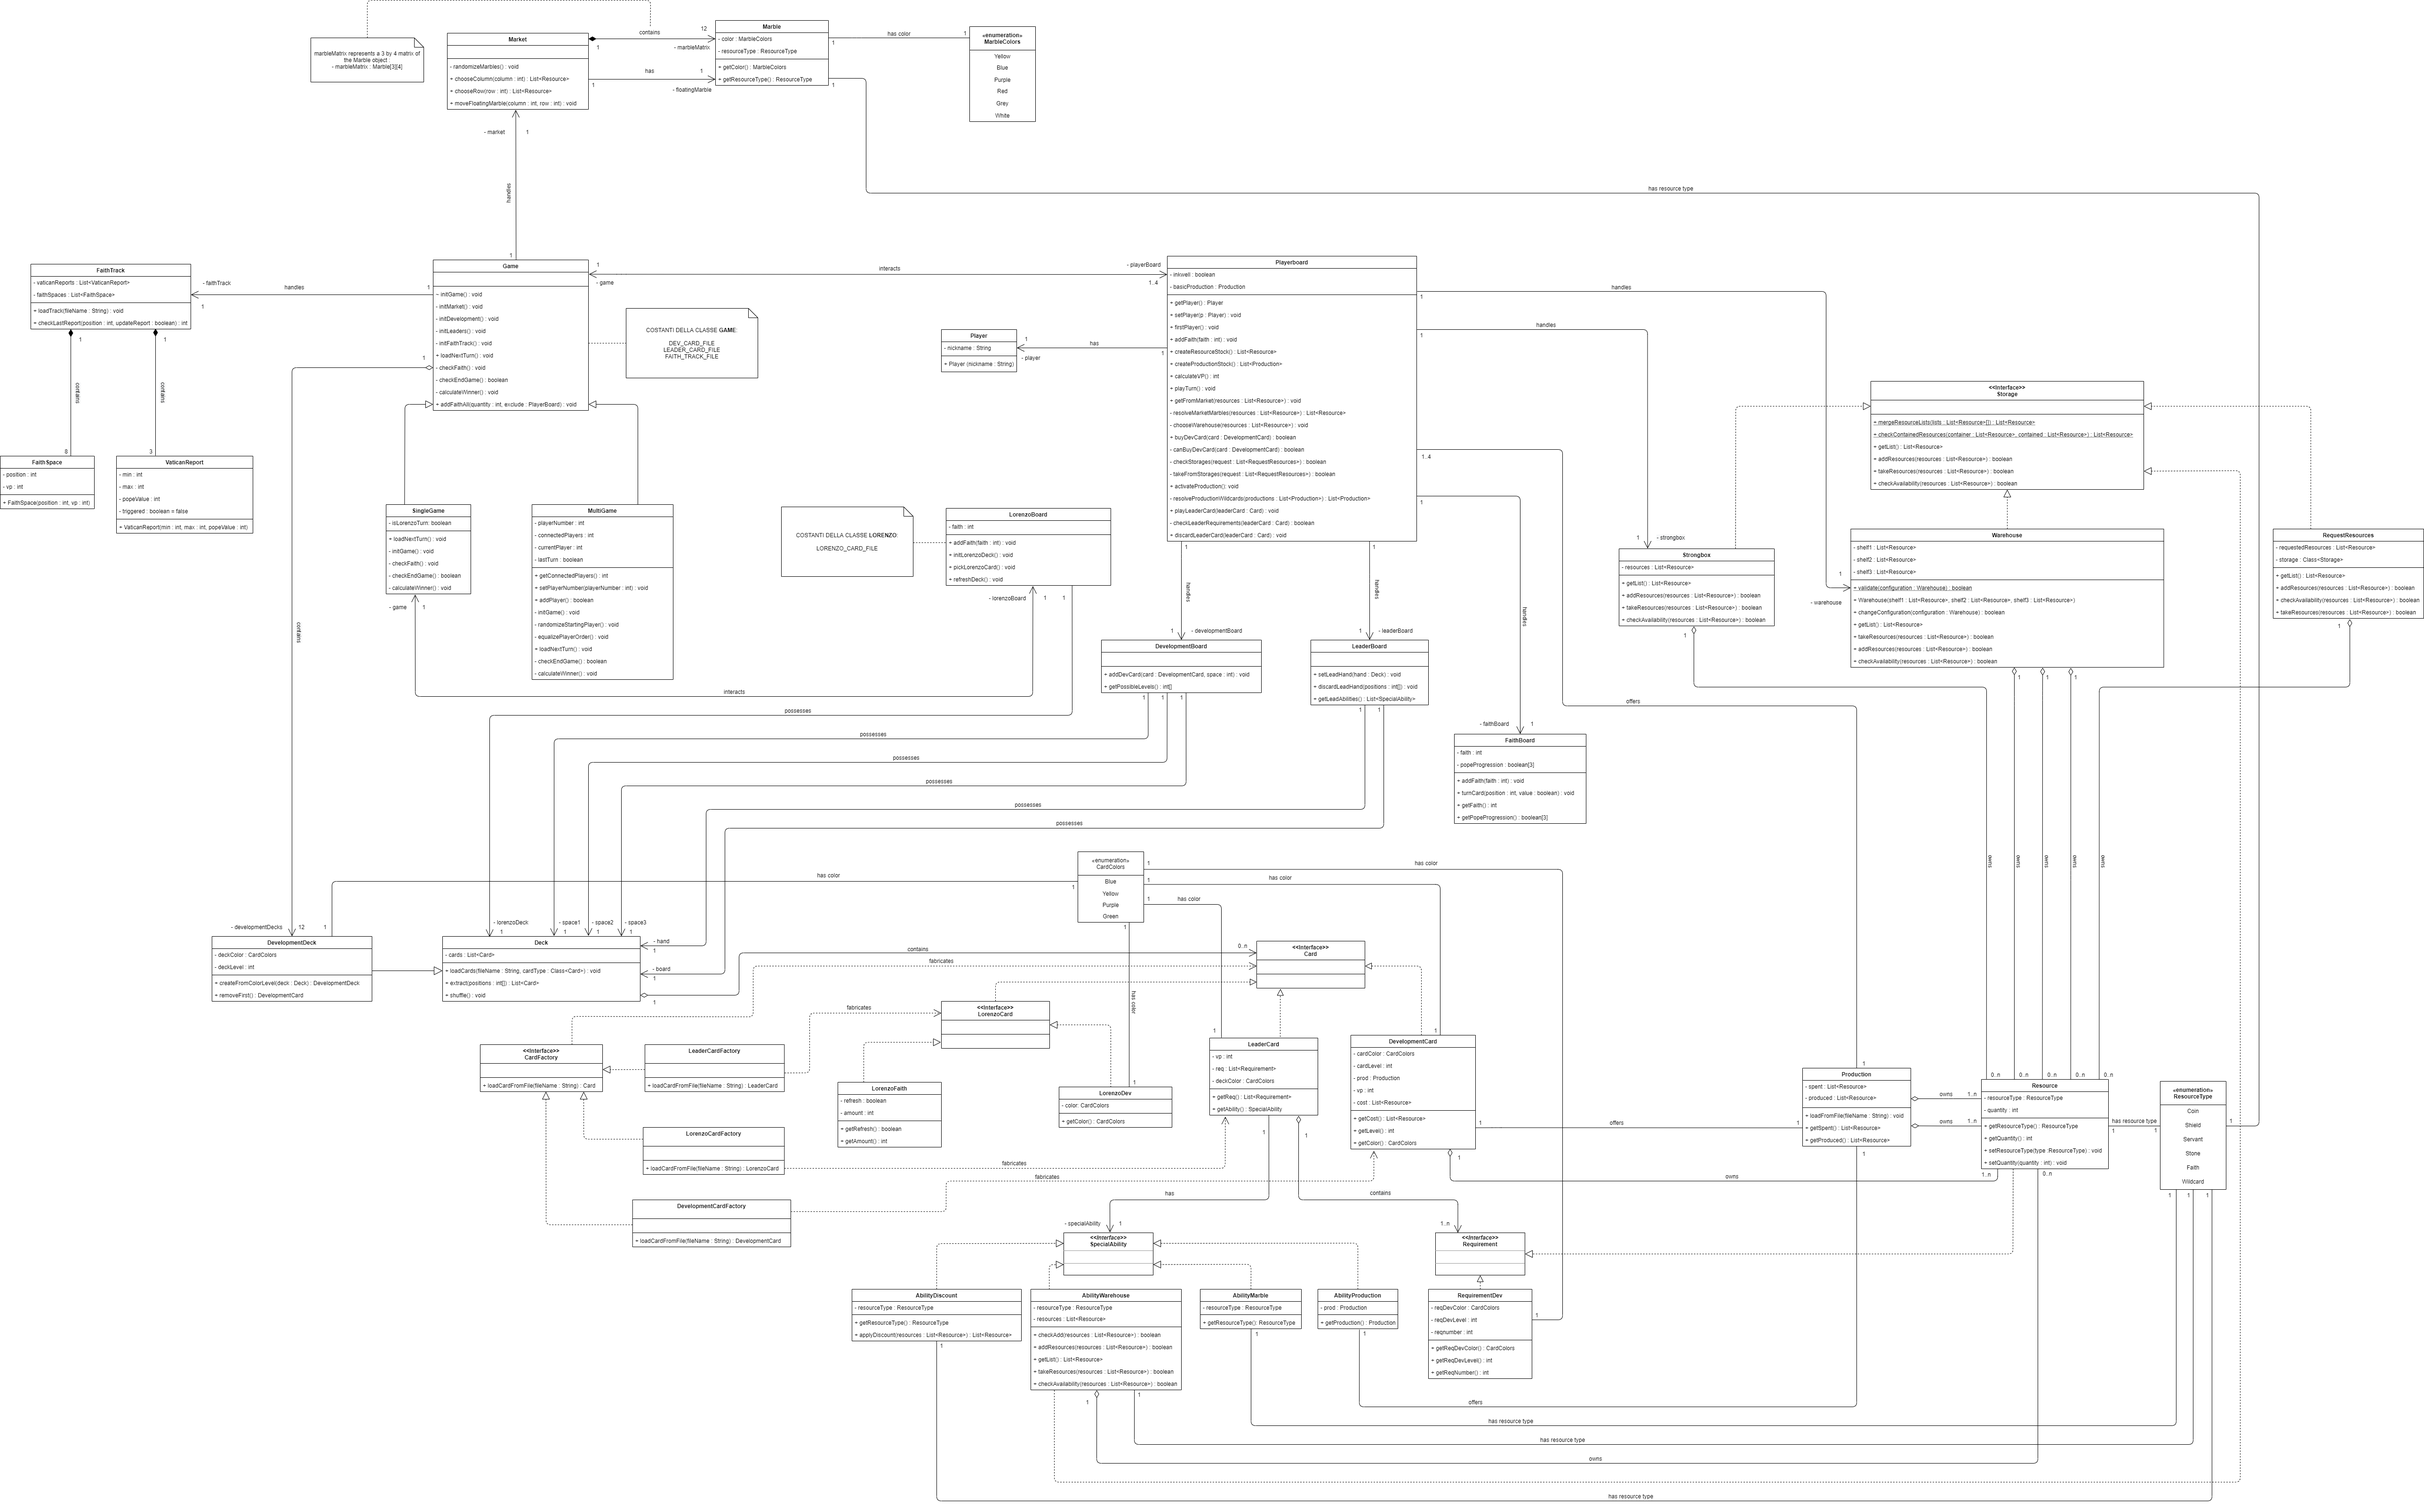
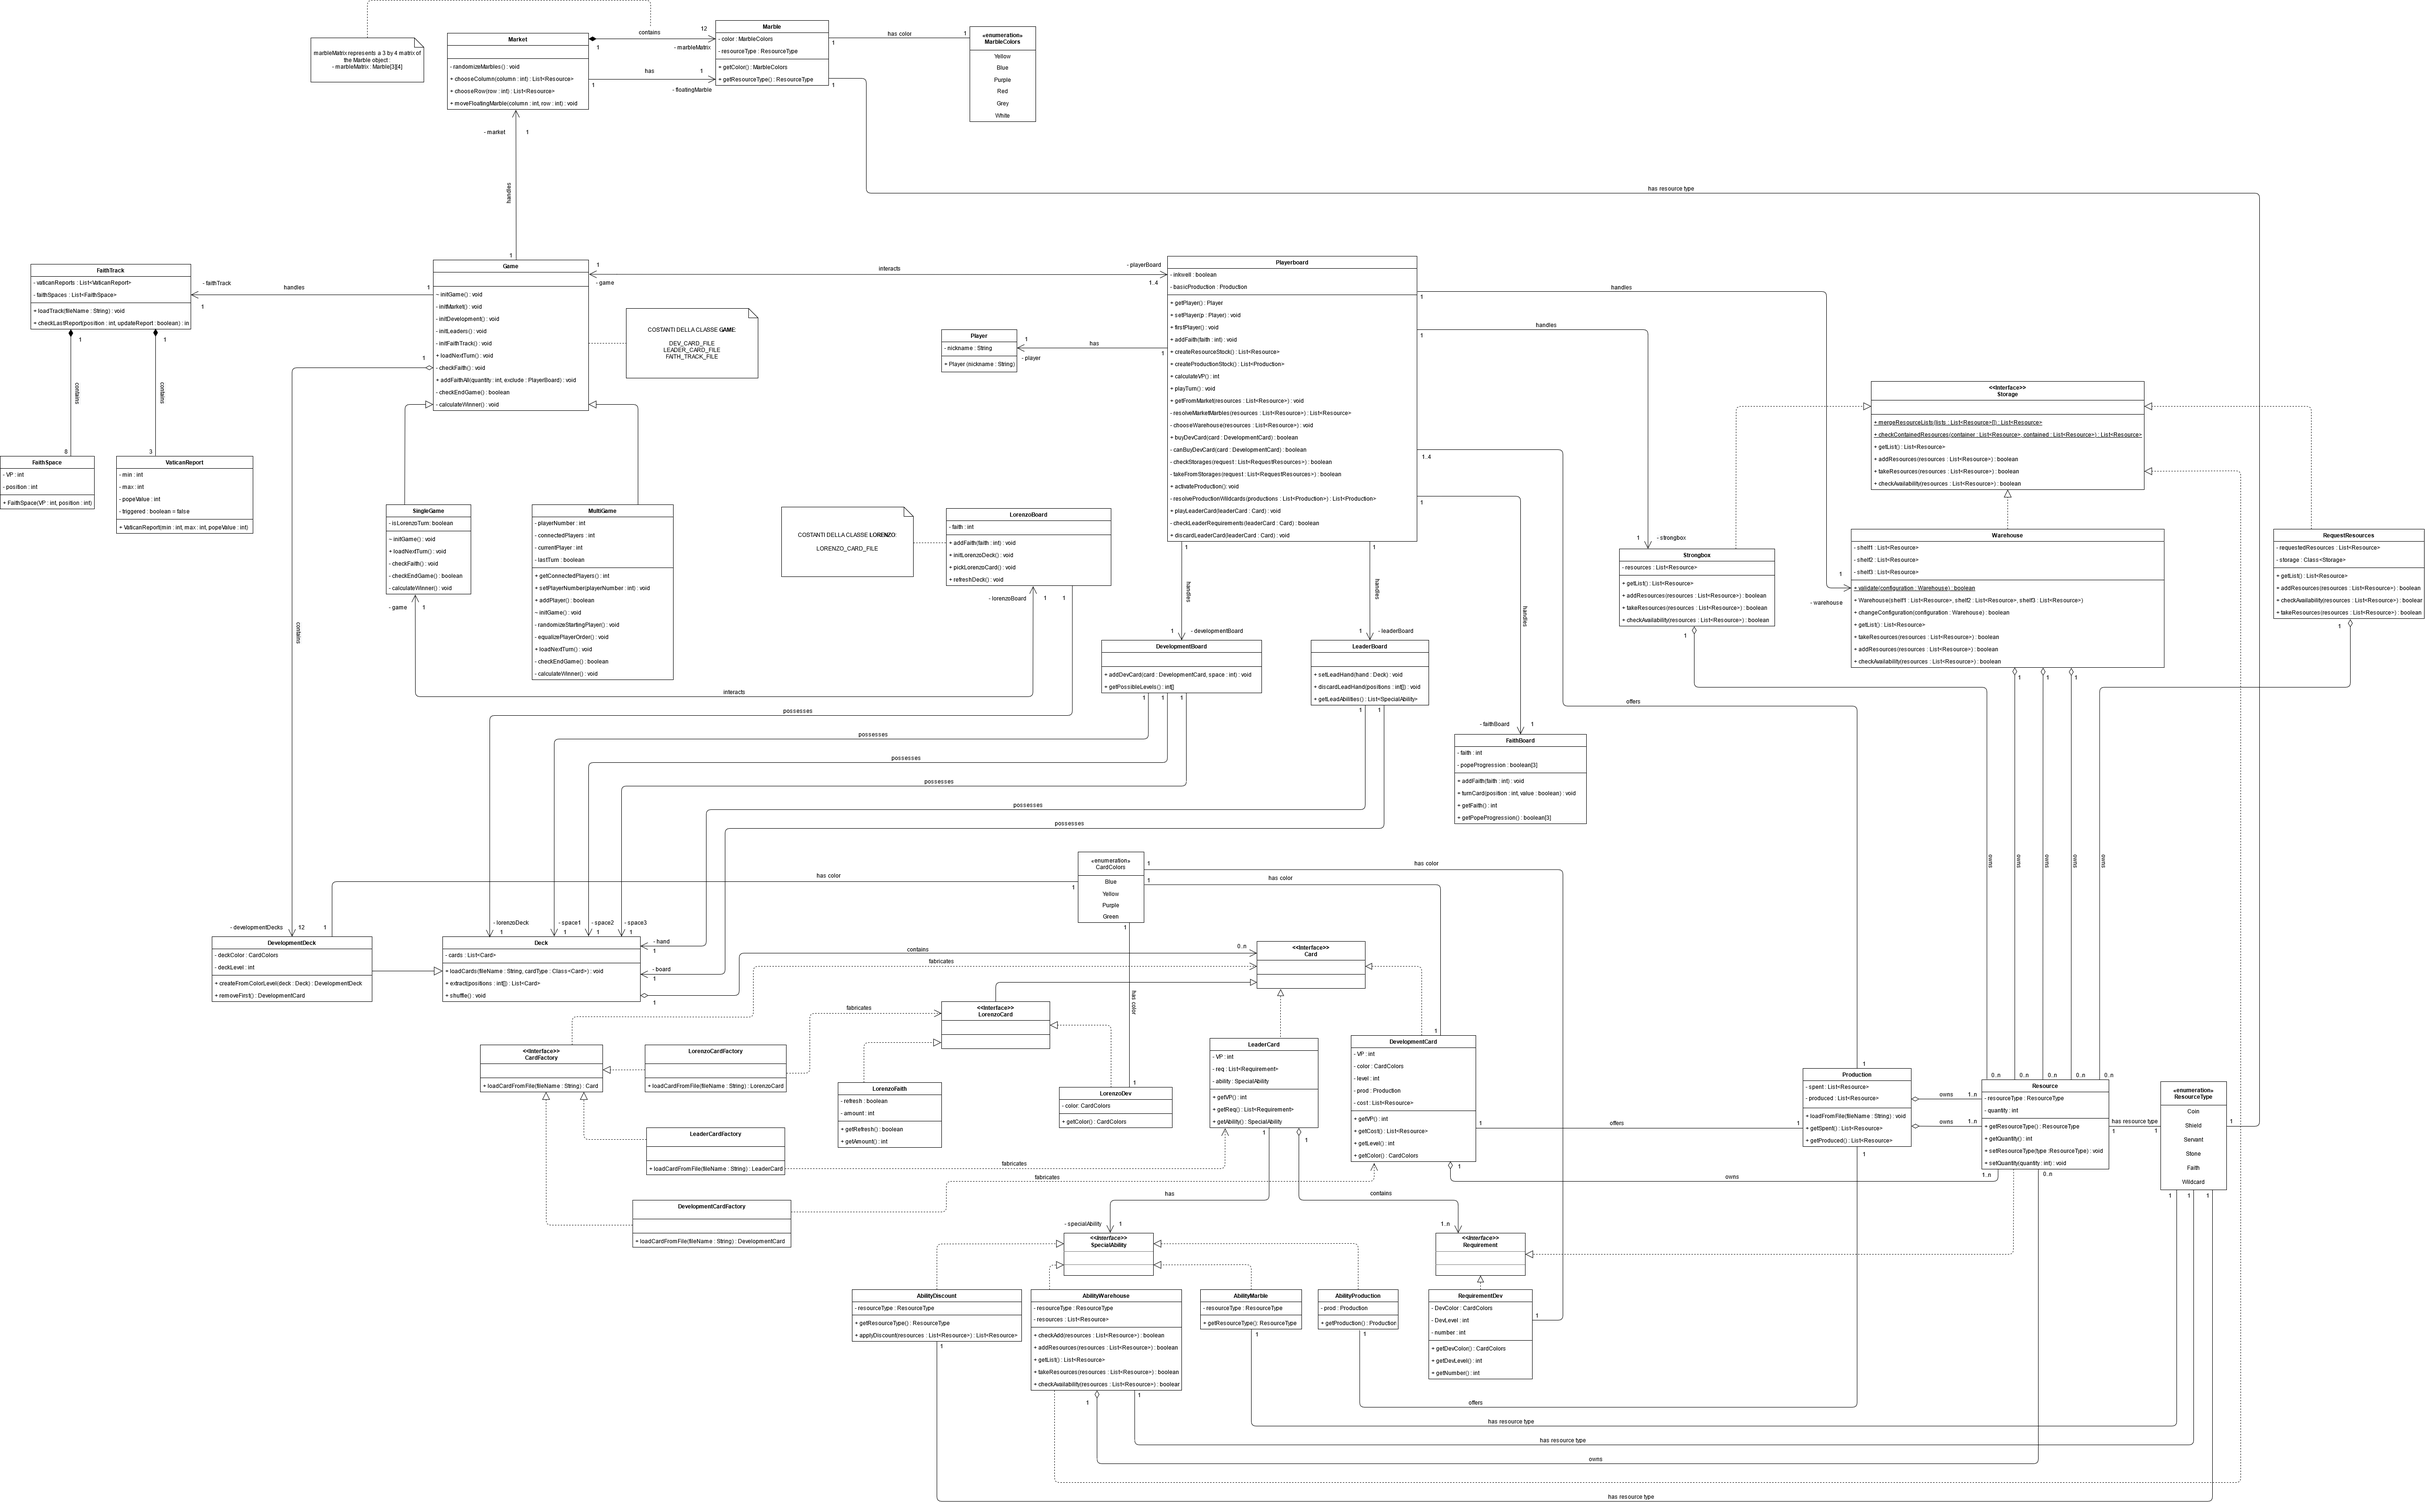
Added methods for the initial classes
Added methods for the Card, Ability and Requirement classes and modified the initial UML accordingly

diff --git a/src/main/java/it/polimi/ingsw/DevelopmentCard.java b/src/main/java/it/polimi/ingsw/DevelopmentCard.java
@@ -1,4 +1,35 @@
 package it.polimi.ingsw;
 
+import java.util.List;
+
 public class DevelopmentCard implements Card{
+
+    private int VP;
+    private CardColors color;
+    private int level;
+    private Production prod;
+    private List<Resource> cost;
+
+
+    public DevelopmentCard(){
+
+    }
+
+
+    public int getVP() {
+        return VP;
+    }
+
+    public List<Resource> getCost(){
+        return cost;
+    }
+
+    public int getLevel(){
+        return level;
+    }
+
+    public CardColors getColor(){
+        return color;
+    }
+
 }

diff --git a/src/main/java/it/polimi/ingsw/RequirementDev.java b/src/main/java/it/polimi/ingsw/RequirementDev.java
@@ -1,4 +1,26 @@
 package it.polimi.ingsw;
 
-public class RequirementDev implements Requirements{
+public class RequirementDev implements Requirement {
+
+    private CardColors devColor;
+    private int devLevel;
+    private int number;
+
+
+    public RequirementDev(){
+
+    }
+
+
+    public CardColors getDevColor(){
+        return devColor;
+    }
+
+    public int getDevLevel(){
+        return devLevel;
+    }
+
+    public int getNumber(){
+        return number;
+    }
 }

diff --git a/src/main/java/it/polimi/ingsw/LeaderCard.java b/src/main/java/it/polimi/ingsw/LeaderCard.java
@@ -1,4 +1,28 @@
 package it.polimi.ingsw;
 
+import java.util.List;
+
 public class LeaderCard implements Card{
+
+    private int VP;
+    private List<Requirement> req;
+    private SpecialAbility ability;
+
+
+    public LeaderCard(){
+
+    }
+
+
+    public int getVP(){
+        return VP;
+    }
+
+    public List<Requirement> getReq(){
+        return req;
+    }
+
+    public SpecialAbility getAbility(){
+        return ability;
+    }
 }

diff --git a/src/main/java/it/polimi/ingsw/AbilityDiscount.java b/src/main/java/it/polimi/ingsw/AbilityDiscount.java
@@ -1,4 +1,22 @@
 package it.polimi.ingsw;
 
+import java.util.List;
+
 public class AbilityDiscount implements SpecialAbility{
+
+    private ResourceType resourceType;
+
+
+    public AbilityDiscount(){
+
+    }
+
+
+    public ResourceType getResourceType(){
+        return resourceType;
+    }
+
+    public List<Resource> applyDiscount(List<Resource> resources){
+        return null;
+    }
 }

diff --git a/src/main/java/it/polimi/ingsw/AbilityWarehouse.java b/src/main/java/it/polimi/ingsw/AbilityWarehouse.java
@@ -1,4 +1,19 @@
 package it.polimi.ingsw;
 
+import java.util.List;
+
 public class AbilityWarehouse implements SpecialAbility, Storage{
+
+    private ResourceType resourceType;
+    private List<Resource> resources;
+
+
+    public AbilityWarehouse(){
+
+    }
+
+
+    public boolean checkAdd(List<Resource> resources){
+        return false;
+    }
 }

diff --git a/src/main/java/it/polimi/ingsw/LorenzoFaith.java b/src/main/java/it/polimi/ingsw/LorenzoFaith.java
@@ -1,4 +1,21 @@
 package it.polimi.ingsw;
 
 public class LorenzoFaith implements LorenzoCard{
+
+    private boolean refresh;
+    private int amount;
+
+
+    private LorenzoFaith(){
+
+    }
+
+
+    public boolean getRefresh(){
+        return refresh;
+    }
+
+    public int getAmount(){
+        return amount;
+    }
 }

diff --git a/src/main/java/it/polimi/ingsw/AbilityMarble.java b/src/main/java/it/polimi/ingsw/AbilityMarble.java
@@ -1,4 +1,16 @@
 package it.polimi.ingsw;
 
 public class AbilityMarble implements SpecialAbility{
+
+    private ResourceType resourceType;
+
+
+    public AbilityMarble(){
+
+    }
+
+
+    public ResourceType getResourceType(){
+        return null;
+    }
 }

diff --git a/src/main/java/it/polimi/ingsw/DevelopmentCardFactory.java b/src/main/java/it/polimi/ingsw/DevelopmentCardFactory.java
@@ -1,4 +1,13 @@
 package it.polimi.ingsw;
 
 public class DevelopmentCardFactory implements CardFactory{
+
+    public DevelopmentCardFactory(){
+
+    }
+
+
+    public DevelopmentCard loadCardFromFile(String fileName){
+        return null;
+    }
 }

diff --git a/src/main/java/it/polimi/ingsw/AbilityProduction.java b/src/main/java/it/polimi/ingsw/AbilityProduction.java
@@ -1,4 +1,16 @@
 package it.polimi.ingsw;
 
 public class AbilityProduction implements SpecialAbility{
+
+    private Production prod;
+
+
+    public AbilityProduction(){
+
+    }
+
+
+    public Production getProd(){
+        return prod;
+    }
 }

diff --git a/src/main/java/it/polimi/ingsw/LorenzoCardFactory.java b/src/main/java/it/polimi/ingsw/LorenzoCardFactory.java
@@ -1,4 +1,13 @@
 package it.polimi.ingsw;
 
 public class LorenzoCardFactory implements CardFactory{
+
+    public LorenzoCardFactory(){
+
+    }
+
+
+    public LorenzoCard loadCardFromFile(String fileName){
+        return null;
+    }
 }

diff --git a/src/main/java/it/polimi/ingsw/LeaderCardFactory.java b/src/main/java/it/polimi/ingsw/LeaderCardFactory.java
@@ -1,4 +1,13 @@
 package it.polimi.ingsw;
 
 public class LeaderCardFactory implements CardFactory{
+
+    public LeaderCardFactory(){
+
+    }
+
+
+    public LeaderCard loadCardFromFile(String fileName){
+        return null;
+    }
 }

diff --git a/src/main/java/it/polimi/ingsw/LorenzoDev.java b/src/main/java/it/polimi/ingsw/LorenzoDev.java
@@ -1,4 +1,16 @@
 package it.polimi.ingsw;
 
 public class LorenzoDev implements LorenzoCard{
+
+    private CardColors color;
+
+
+    private LorenzoDev(){
+
+    }
+
+
+    public CardColors getColor(){
+        return color;
+    }
 }
